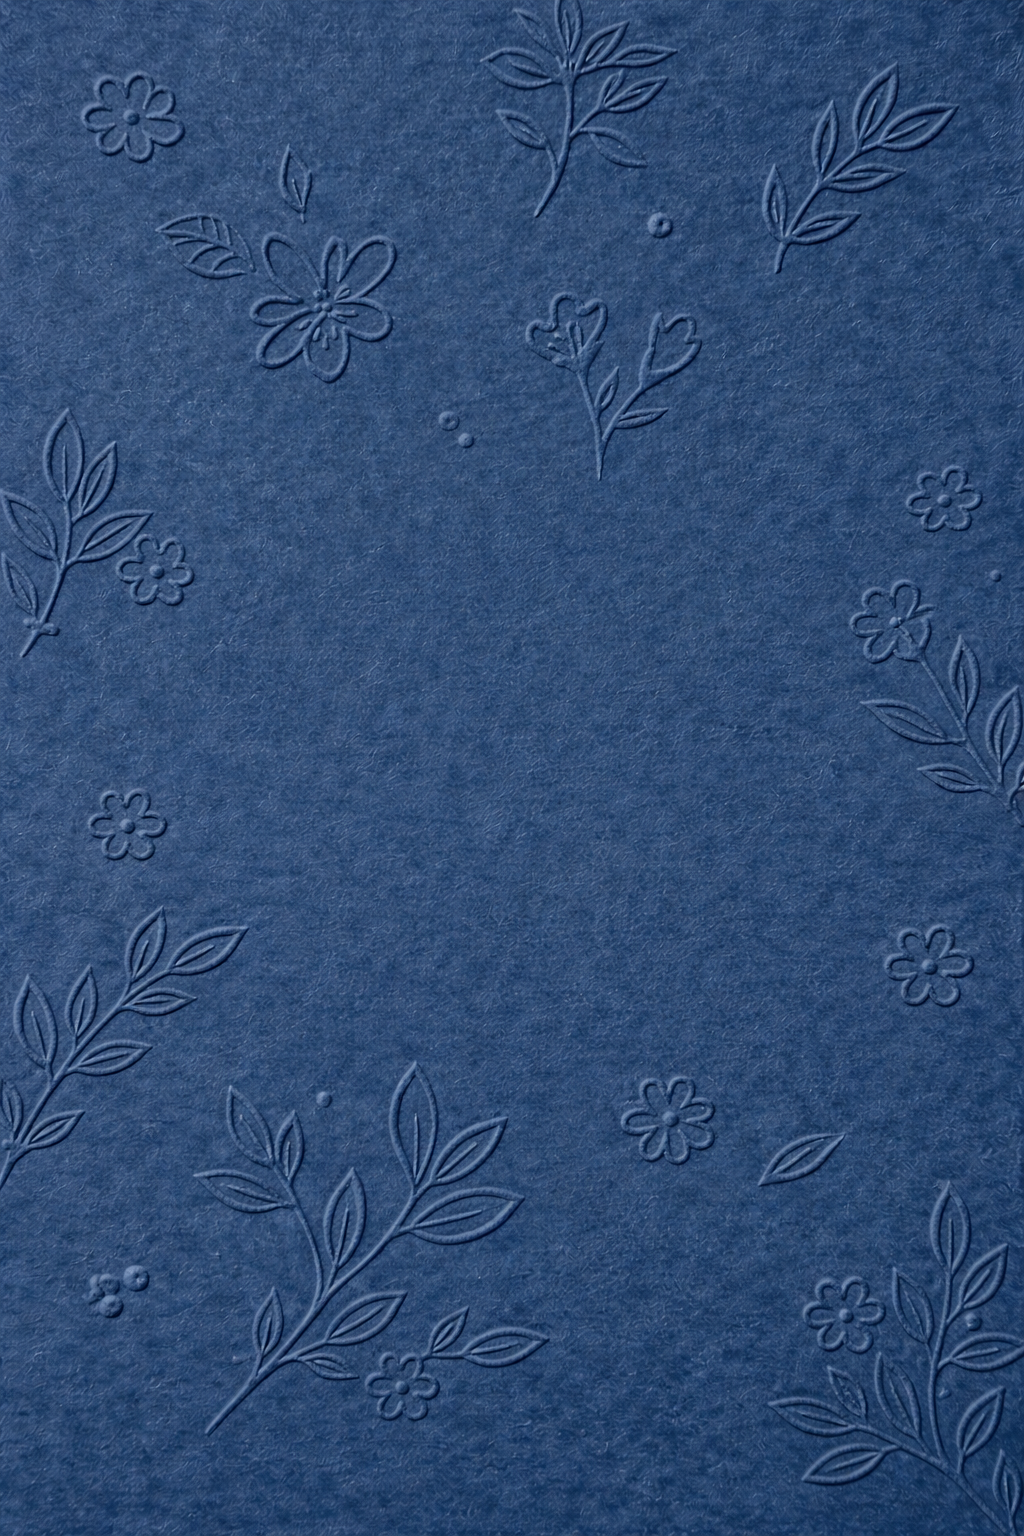
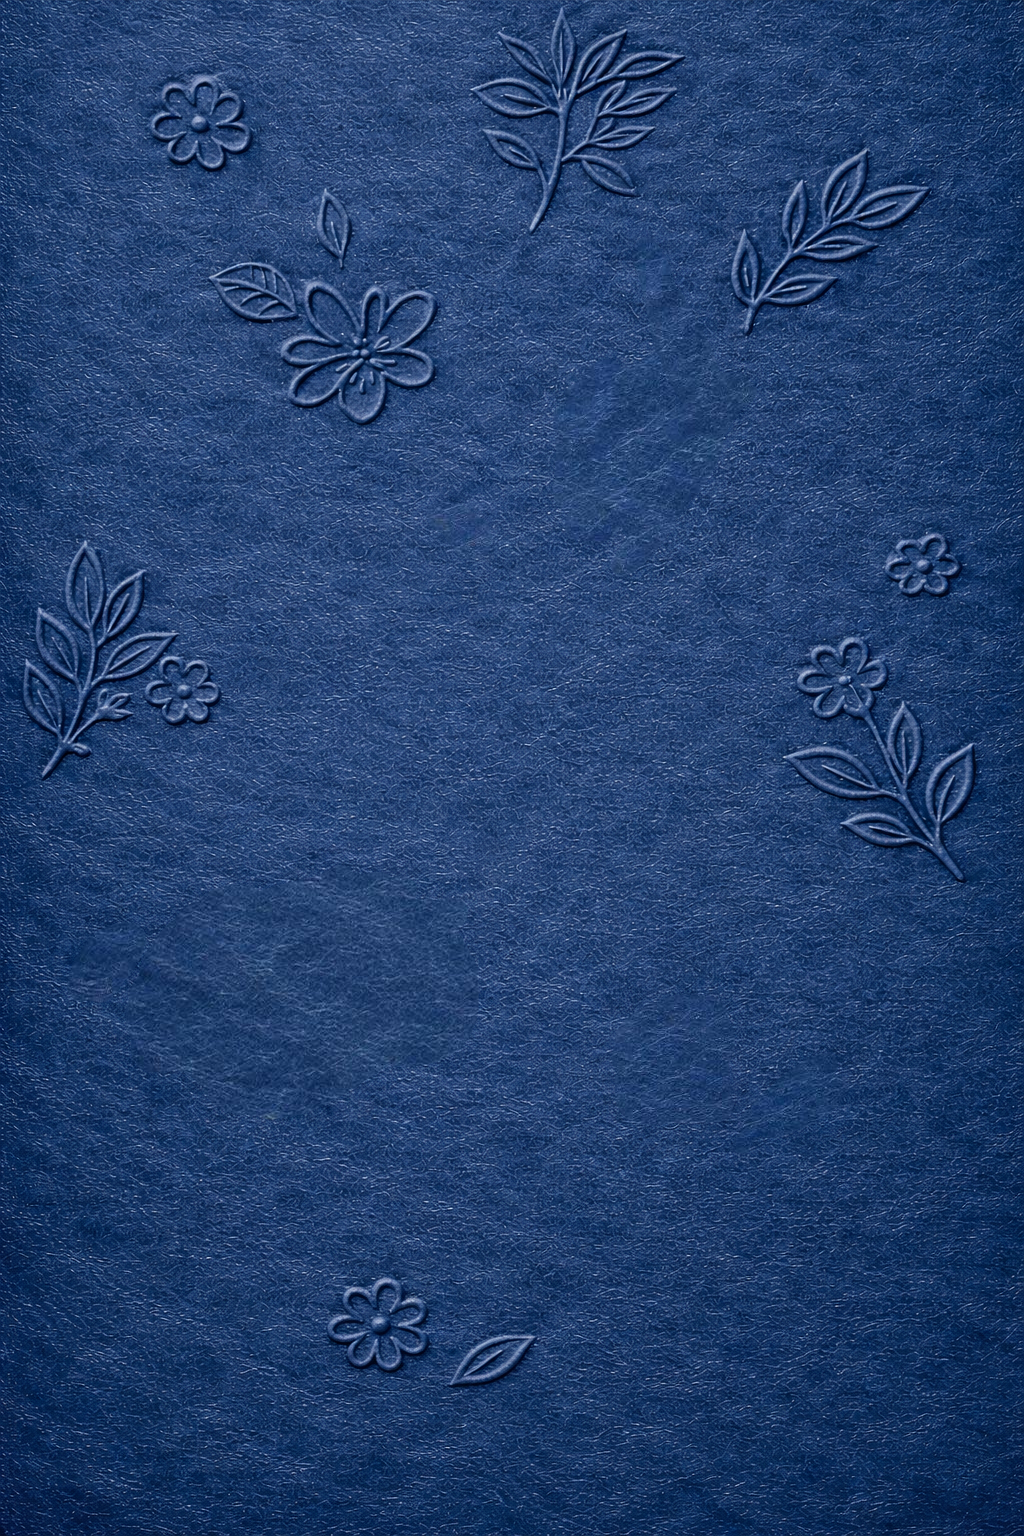
UI Bug fixes

diff --git a/index.html b/index.html
@@ -221,9 +221,9 @@
             width: 100%;
             height: 100%;
 
-            background: url("./asset/image/paper\ mobile\ 3.png");
+            background: url("./asset/image/paper\ mobile\ 2.png");
             background-size: cover;
-            background-position: 48% 25%;
+            background-position: 60% 25%;
 
             clip-path: polygon(-20% 0, 120% 0, 50% 60%);
             transform-origin: top;
